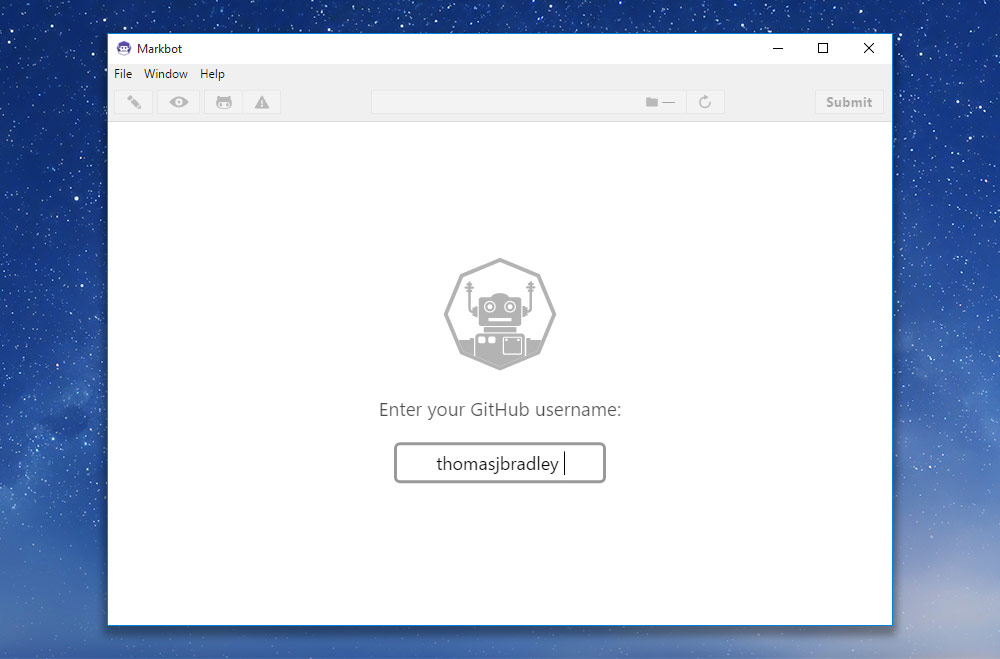
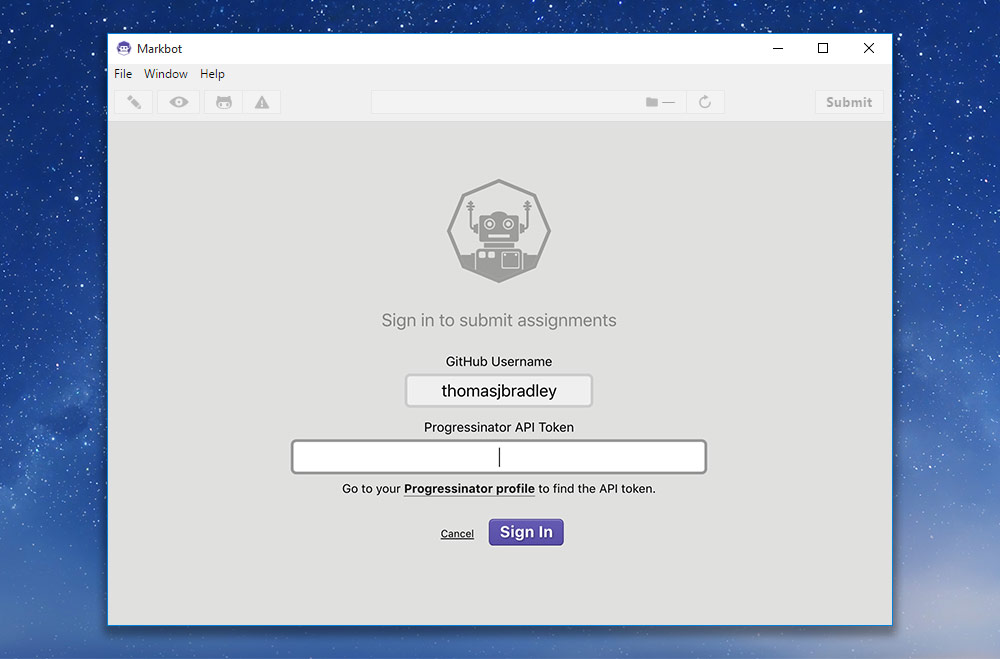
Update the installation lessons for the new term

diff --git a/install-all-the-things.md b/install-all-the-things.md
@@ -6,6 +6,13 @@ desc: "Set up your computer, install all the different web browsers, install a c
 hide_markbot: true
 video: "-wwzFCj_keE"
 
+important:
+  title: "MacOS-specific tutorial"
+  text: |
+    If you have a Windows-based computer jump to the correct lesson.
+
+    [**☛ Go to the Windows installation tutorial.**](/courses/web-dev-1/install-all-the-things-windows/)
+
 steps:
   - title: "Configure Finder"
     before: |
@@ -16,15 +23,10 @@ steps:
       1. Go to `Finder > Preferences`.
       2. Go to “Advanced”.
       3. Make sure “Show all filename extensions” is checked.
-    notes:
-      - label: "Windows"
-        text: |
-          If you’re a Windows user, this tutorial isn’t for you.
-          <br>[**☛ Go to the Windows installation tutorial.**](/courses/web-dev-1/install-all-the-things-windows/)
 
   - title: "Configure keyboard preferences"
     before: |
-      By default some of the keyboard features are turned off on Mac OS X—let’s fix that.
+      By default some of the keyboard features are turned off on MacOS—let’s fix that.
 
       ![](keyboard.jpg)
 
@@ -96,16 +98,16 @@ steps:
       2. Go to the “Advanced” tab.
       3. Make sure “Show Develop menu in menu bar” is enabled.
 
-  - title: "Create a BrowserStack account"
-    before: |
-      We want to be able to test Microsoft Edge, but because we’re using MacOS, that becomes a little more difficult.
+  # - title: "Create a BrowserStack account"
+  #   before: |
+  #     We want to be able to test Microsoft Edge, but because we’re using MacOS, that becomes a little more difficult.
 
-      ![](browserstack.jpg)
+  #     ![](browserstack.jpg)
 
-      A simple way to test is using an online emulation service. *BrowserStack, sponsored by Microsoft, provides free Microsoft Edge testing.* So, we’re going to use that service.
+  #     A simple way to test is using an online emulation service. *BrowserStack, sponsored by Microsoft, provides free Microsoft Edge testing.* So, we’re going to use that service.
 
-      1. Go to [BrowserStack’s website](https://www.browserstack.com/test-on-microsoft-edge-browser#live-cloud) and create an account (press “Get Started”).
-      2. You may be prompted to install something else for testing on `localhost`: Press “Yes” you want to do that, and install the extension.
+  #     1. Go to [BrowserStack’s website](https://www.browserstack.com/test-on-microsoft-edge-browser#live-cloud) and create an account (press “Get Started”).
+  #     2. You may be prompted to install something else for testing on `localhost`: Press “Yes” you want to do that, and install the extension.
 
   # - title: "Install VirtualBox"
   #   before: |
@@ -209,7 +211,7 @@ steps:
     before: |
       We need to install the JDK because the automated marking program, Markbot, needs access to Java for performing some of it’s tasks.
 
-      Go to the JDK download page on [Oracle’s Java Downloads](https://www.oracle.com/technetwork/java/javase/downloads/jdk11-downloads-5066655.html) website.
+      Go to the JDK download page on [Oracle’s Java Downloads](https://www.oracle.com/technetwork/java/javase/downloads/jdk12-downloads-5295953.html) website.
 
       ![](jdk-license.jpg)
 
@@ -237,6 +239,14 @@ steps:
 
       ![](markbot.jpg)
 
+      ### Add your Progressinator API key
+
+      Go back to your browser tab with your Progressinator profile & copy & paste the API key into Markbot:
+
+      ![](markbot-api-key.jpg)
+
+      **Then “Sign-in” to Markbot.**
+
   - title: "Final checklist"
     before: |
       Double check you’ve installed everything on your computer.
@@ -250,7 +260,7 @@ steps:
       - "Chrome"
       - "Opera"
       - "Configure Safari"
-      - "Create a BrowserStack account"
+      # - "Create a BrowserStack account"
       - "Get HTML files to open properly"
       - "Create a GitHub account"
       - "GitHub Desktop"

diff --git a/install-all-the-things-windows.md b/install-all-the-things-windows.md
@@ -5,6 +5,13 @@ desc: "Set up your computer, install all the different web browsers, install a c
 
 hide_markbot: true
 
+important:
+  title: "Windows-specific tutorial"
+  text: |
+    If you have a MacOS-based computer jump to the correct lesson.
+
+    [**☛ Go to the MacOS installation tutorial.**](/courses/web-dev-1/install-all-the-things/)
+
 steps:
   - title: "Configure File Explorer"
     before: |
@@ -15,11 +22,6 @@ steps:
       1. Go to a folder.
       2. Go to the “View” tab.
       3. Make sure “File name extensions” is checked.
-    notes:
-      - label: "Mac"
-        text: |
-          If you’re a Mac user, this tutorial isn’t for you.
-          <br>[**☛ Go to the Mac installation tutorial.**](/courses/web-dev-1/install-all-the-things/)
 
   - title: "Install Firefox"
     before: |
@@ -106,7 +108,7 @@ steps:
     before: |
       We need to install the JDK because the automated marking program, Markbot, needs access to Java for performing some of it’s tasks.
 
-      Go to the JDK download page on [Oracle’s Java Downloads](https://www.oracle.com/technetwork/java/javase/downloads/jdk11-downloads-5066655.html) website.
+      Go to the JDK download page on [Oracle’s Java Downloads](https://www.oracle.com/technetwork/java/javase/downloads/jdk12-downloads-5295953.html) website.
 
       ![](jdk-license.jpg)
 
@@ -131,6 +133,14 @@ steps:
       *If Markbot gives you an “Unidentified developer” security warning—click the “More info” link and press “Run anyways”.*
 
       ![](markbot.jpg)
+
+      ### Add your Progressinator API key
+
+      Go back to your browser tab with your Progressinator profile & copy & paste the API key into Markbot:
+
+      ![](markbot-api-key.jpg)
+
+      **Then “Sign-in” to Markbot.**
 
   - title: "Final checklist"
     before: |

diff --git a/week-02.md b/week-02.md
@@ -29,6 +29,10 @@ slides:
 
 tasks:
   - type: blank
+  - title: "Create Progressinator account"
+    url: create-progressinator-account
+    type: lesson
+    no-solution: true
   - title: "Install all the things!"
     url: install-all-the-things
     type: lesson
@@ -37,11 +41,5 @@ tasks:
     url: set-up-your-code-editor
     type: lesson
     no-solution: true
-  - title: "Submit GitHub account"
-    url: "https://github.com/acgd-webdev-1/submit-github-account"
-    type: basic
-    submit: online
-    button: online
-    icon: star
   - type: watch-videos
 ---

diff --git a/create-progressinator-account.md b/create-progressinator-account.md
@@ -1,0 +1,10 @@
+---
+layout: lesson
+title: "Create Progressinator account"
+desc: "Set up your account on Learn the Web’s grade tracking service: Progressinator"
+
+steps:
+  - title: "Create your account"
+  - title: "Set your current course & section"
+  - title: "Keep the profile tab open"
+---
